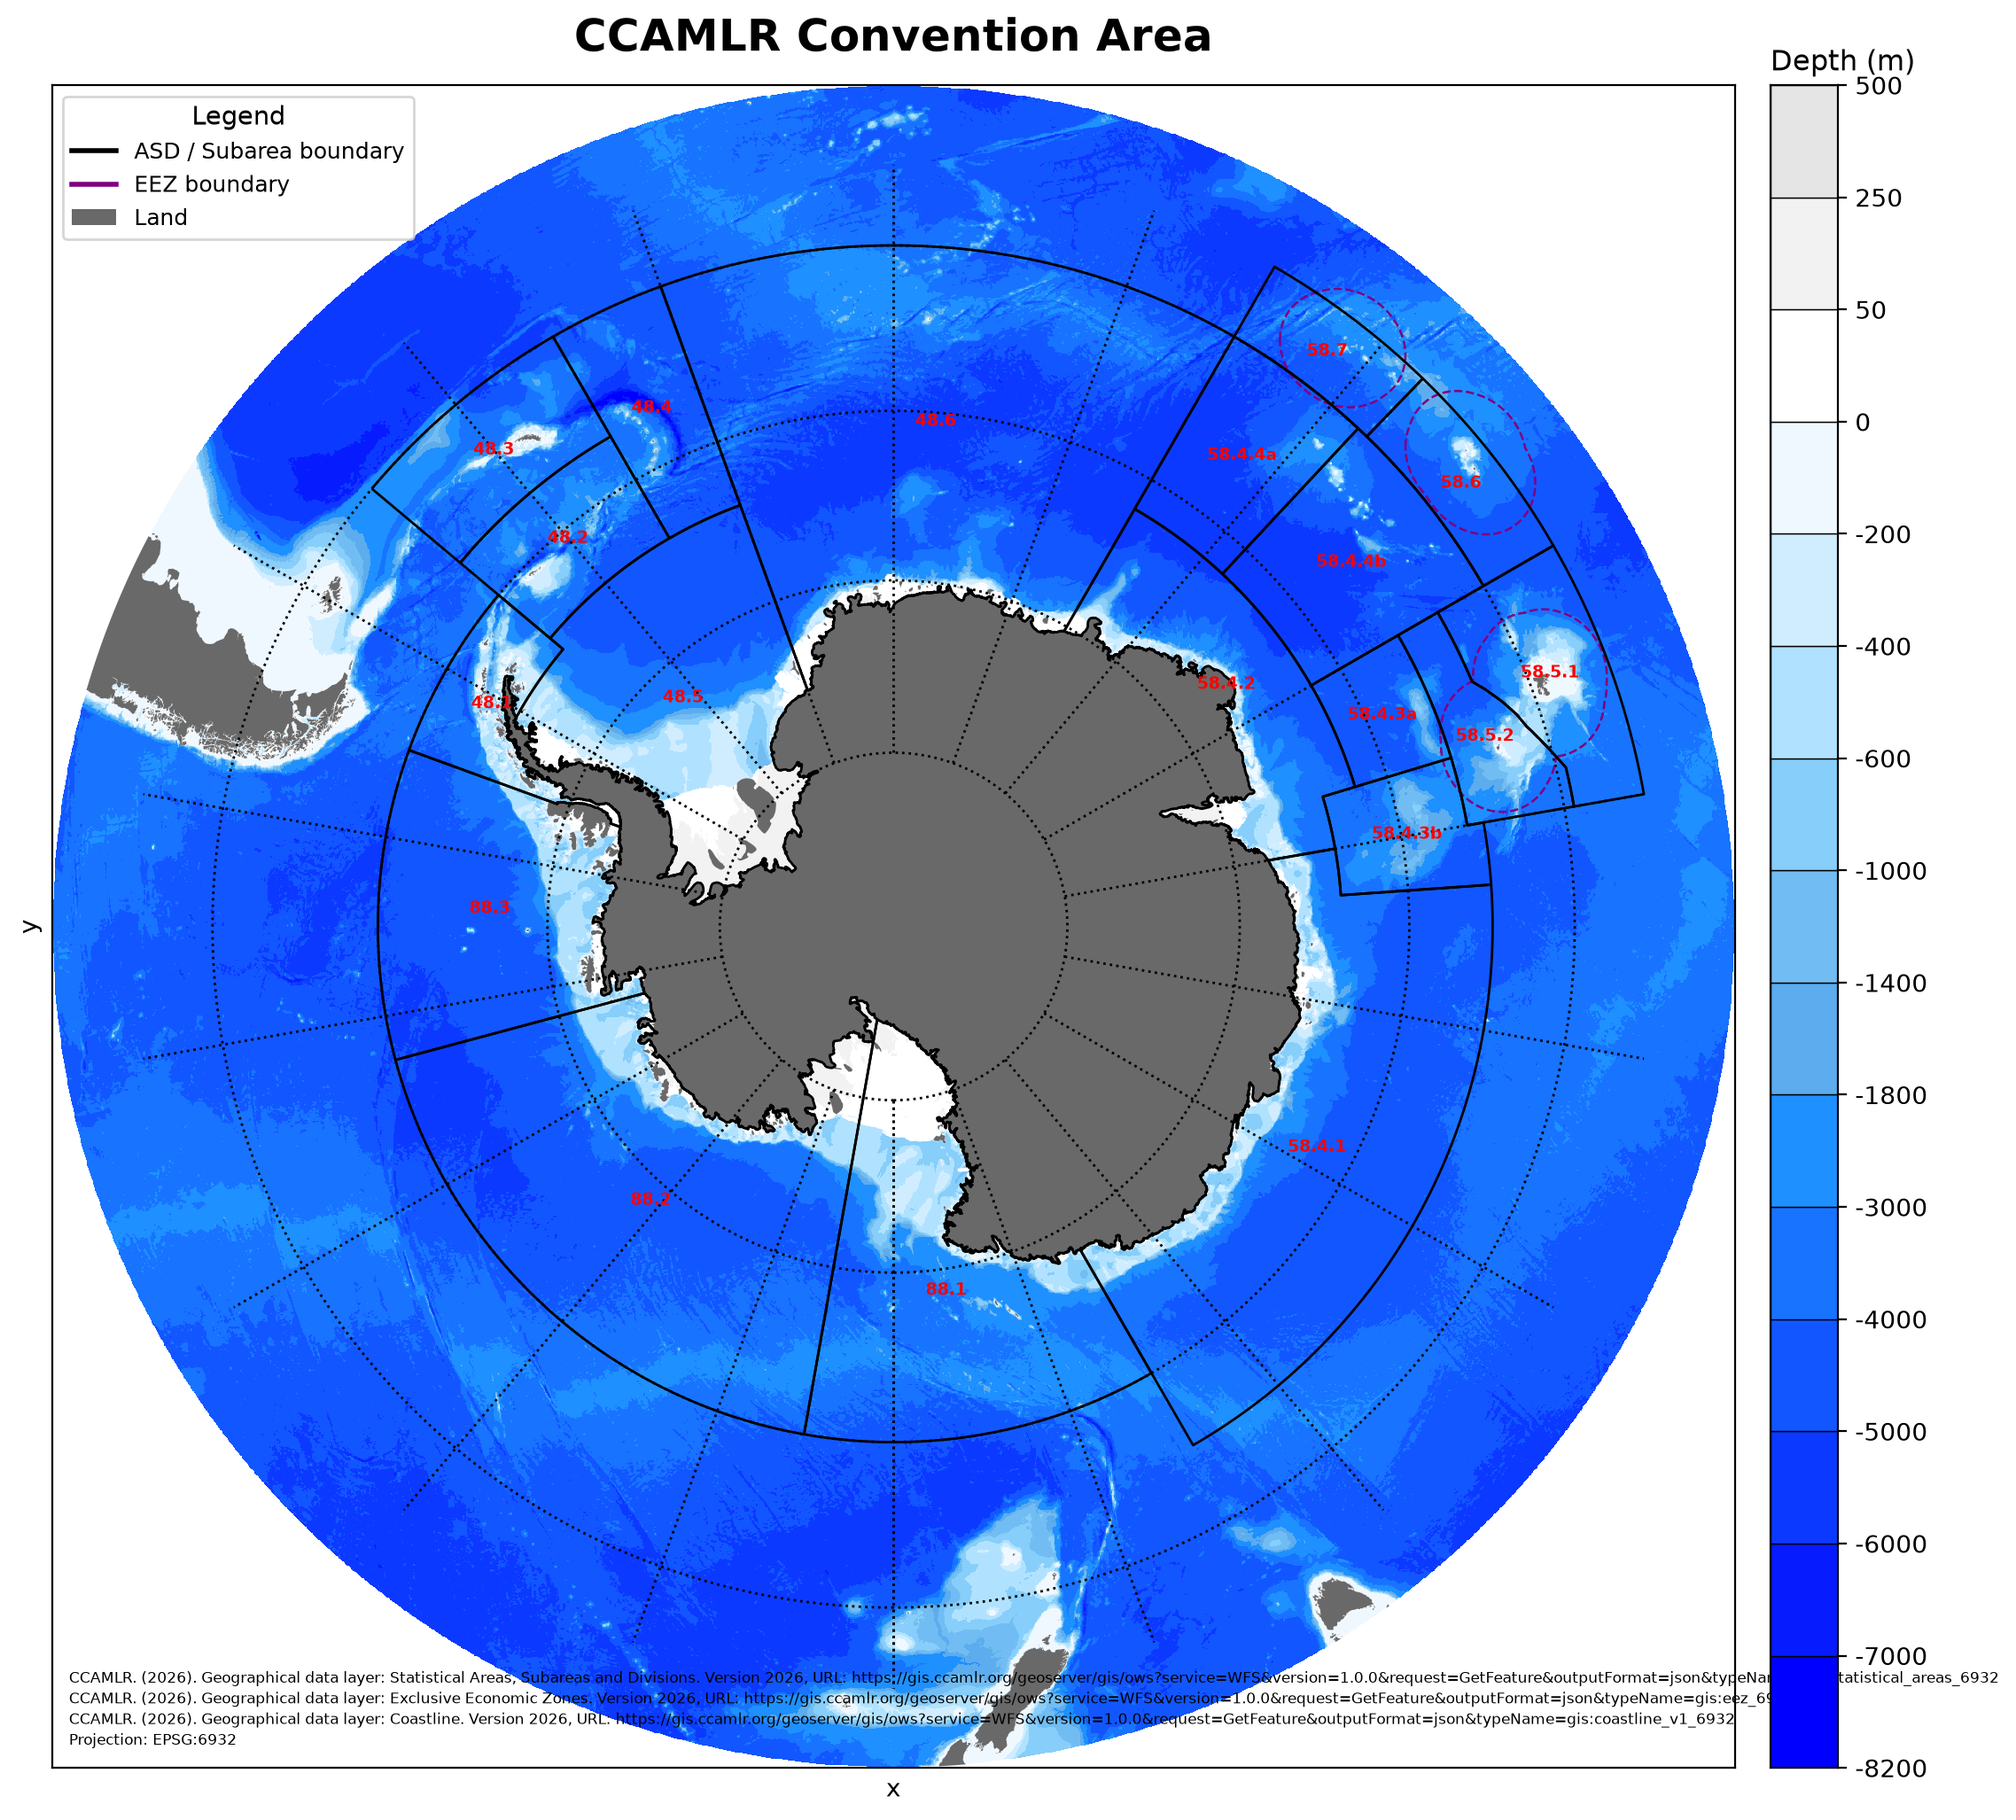
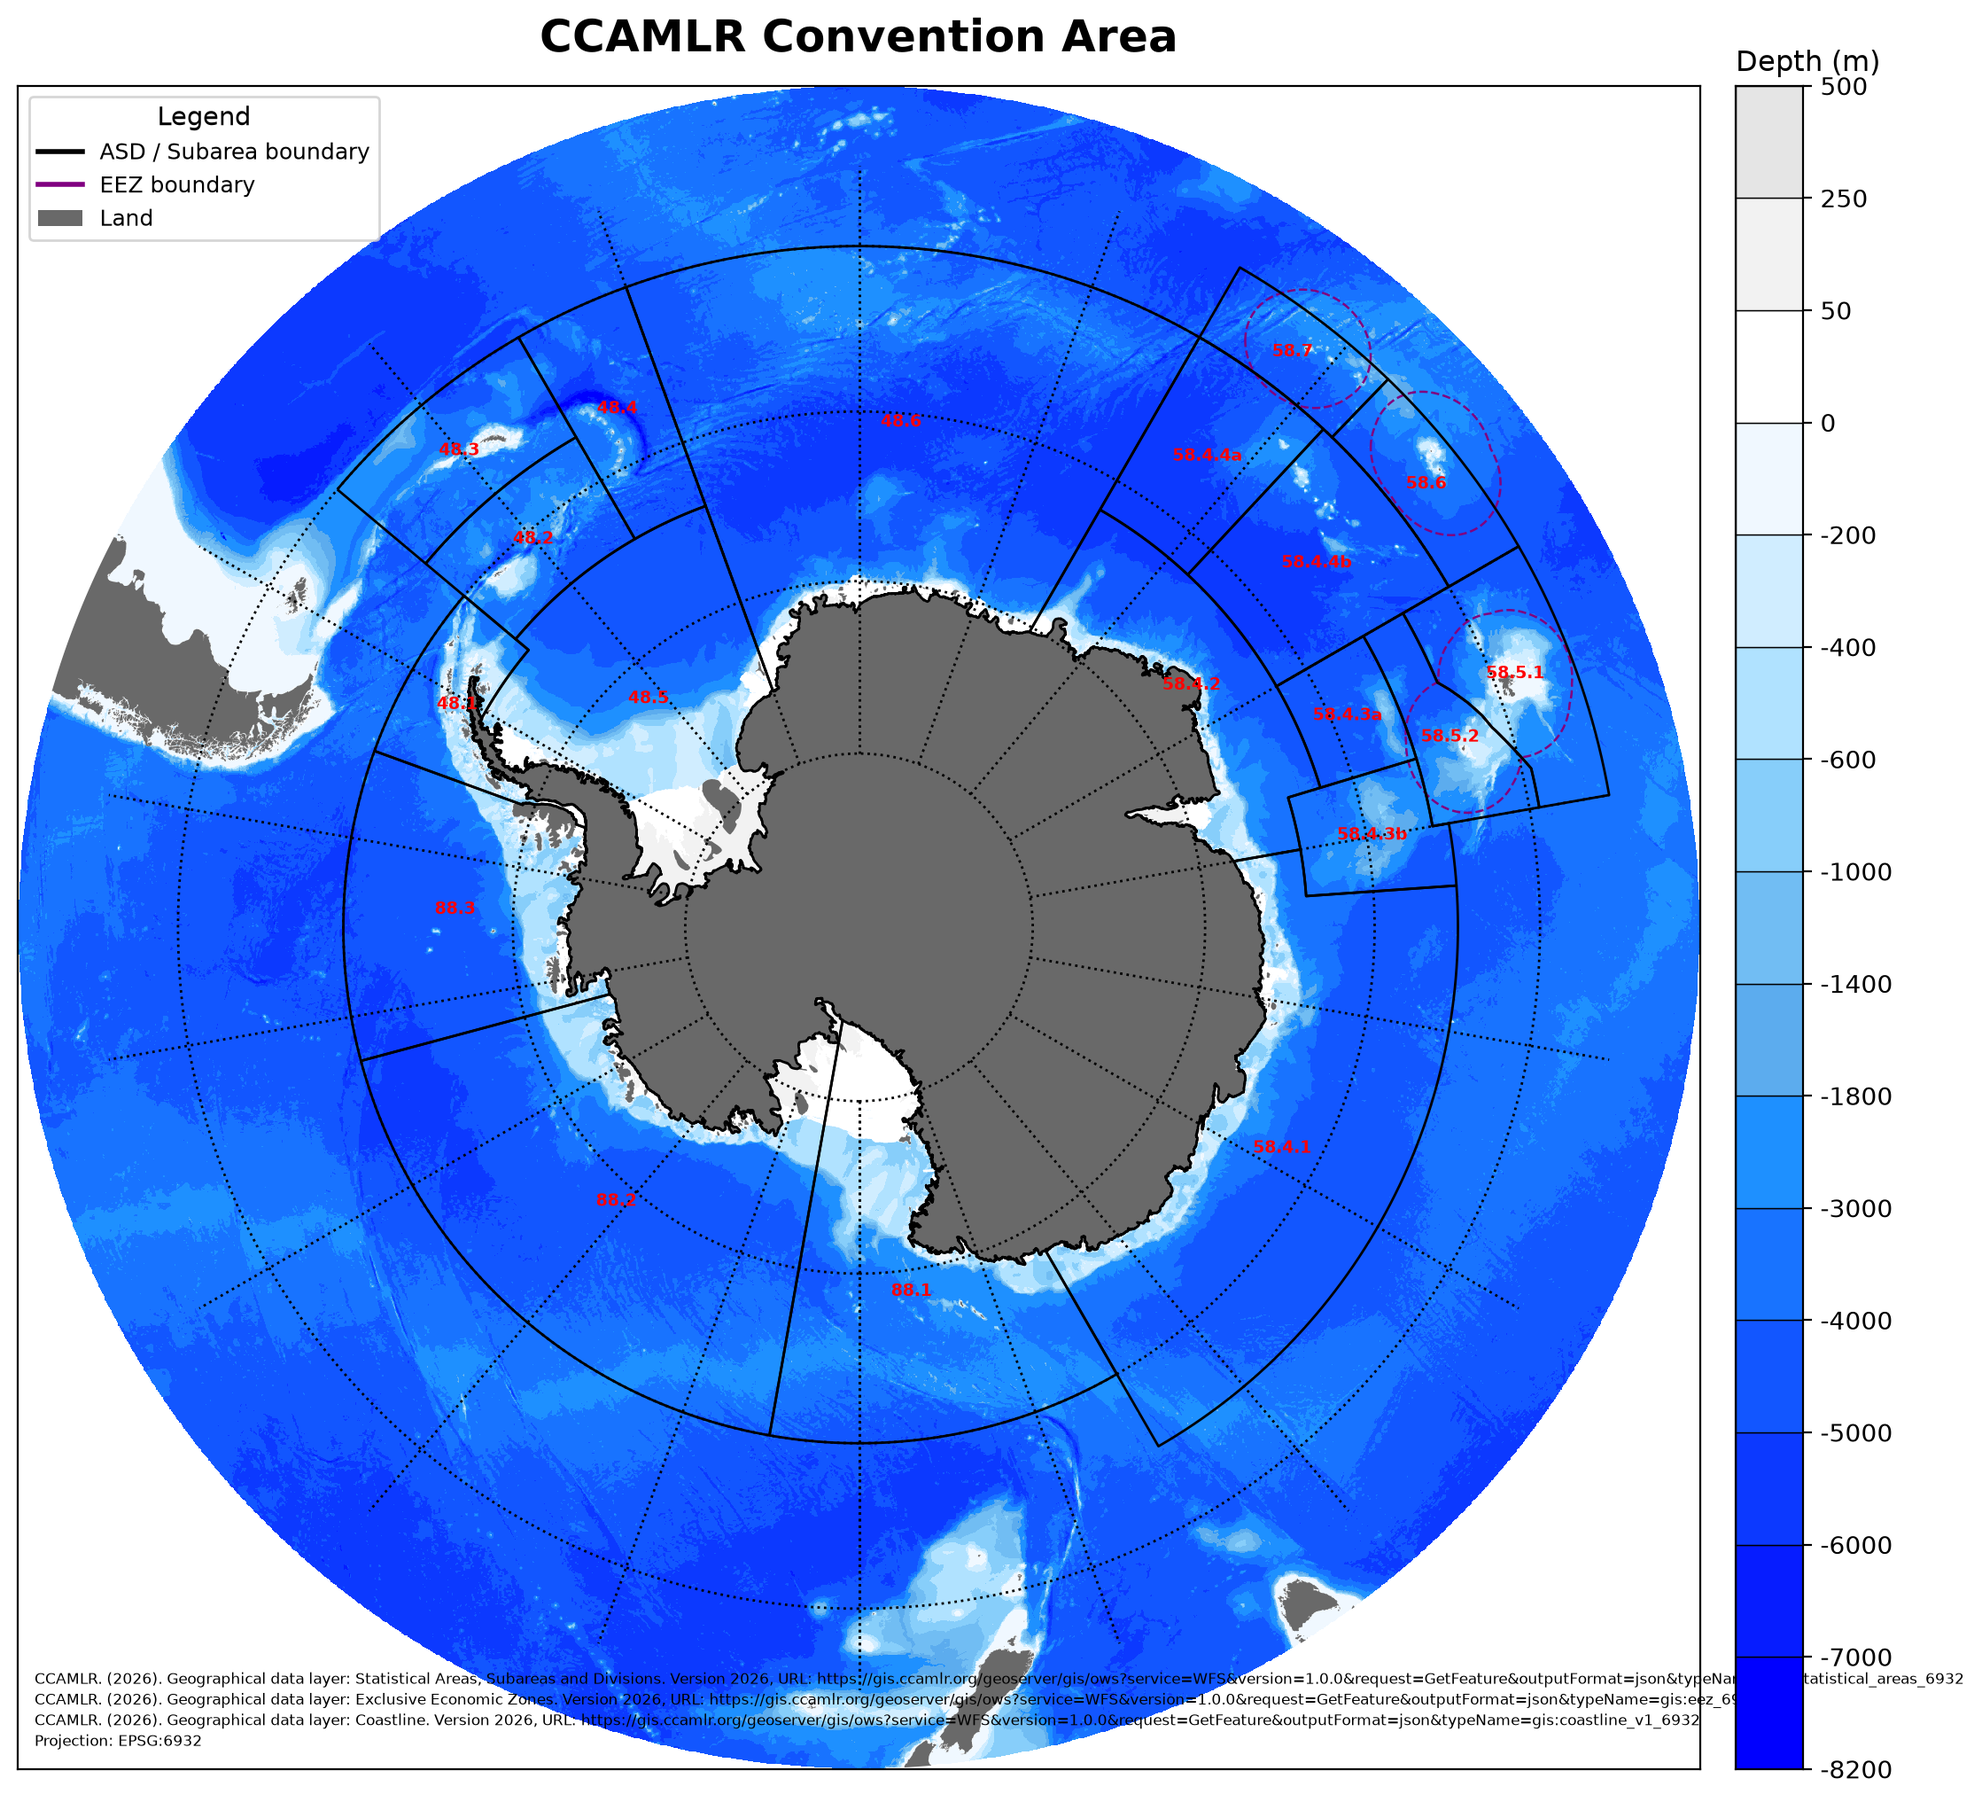
Add Subarea 48 zoomed map; fix axis-label clutter
New figure: make_subarea48_map.py -> output/subarea48_overview.png,
zoomed to CCAMLR Subarea 48 (Antarctic Peninsula / Scotia Sea) using
load_bathy at higher resolution than the full-continent overview.

Also cleared xarray's default x/y axis labels on both scripts (they
duplicated the reference grid's own lat/lon labelling. The Subarea 48
figure surfaced a real ccamlrgis bug along the way -- add_labels wasn't
clipping text to the axes, so every ASD label in the full dataset
rendered regardless of the current zoom, scattered outside the map
extent. Fixed upstream in ccamlrgis-py (see that repo's history) and
re-rendered both figures here with the fix.

EOF
)

Changed region(s): [[0.0, 0.0, 0.987, 0.9916], [0.7711, 0.7437, 0.802, 0.7747], [0.7403, 0.7747, 0.7711, 0.8057]]

diff --git a/make_subarea48_map.py b/make_subarea48_map.py
@@ -1,0 +1,59 @@
+"""Build a zoomed-in map of CCAMLR Subarea 48 (Antarctic Peninsula /
+Scotia Sea), using ccamlrgis (https://github.com/Zephyr-Sylvester/ccamlrgis-py).
+"""
+
+import matplotlib.pyplot as plt
+from matplotlib.colors import BoundaryNorm, ListedColormap
+
+import ccamlrgis as cg
+import ccamlrgis.plot as cgplot
+
+OUT_PATH = "output/subarea48_overview.png"
+SUBAREA_48_CODES = ["481", "482", "483", "484", "485", "486"]
+
+
+def main() -> None:
+    asds_all = cg.load_asds()
+    asds48 = asds_all[asds_all["GAR_Short_Label"].isin(SUBAREA_48_CODES)]
+    eezs = cg.load_eezs()
+    coast = cg.load_coastline()
+    coast_land = coast[coast["surface"] == "Land"]
+
+    bounds = tuple(asds48.buffer(50_000).total_bounds)
+    bathy = cg.load_bathy(res=2500)
+    bathy48 = bathy.rio.clip_box(*bounds)
+
+    depth_cmap = ListedColormap(cg.DEPTH_COLS)
+    depth_norm = BoundaryNorm(cg.DEPTH_CUTS, depth_cmap.N)
+
+    citations = [asds_all.attrs["citation"], eezs.attrs["citation"], coast.attrs["citation"]]
+    fig, ax = cgplot.basemap(figsize=(11, 11), attribution=citations)
+
+    bathy48.plot(ax=ax, cmap=depth_cmap, norm=depth_norm, add_colorbar=False)
+    ax.set_xlabel("")
+    ax.set_ylabel("")
+    cgplot.add_colour_scale(ax=ax, cuts=cg.DEPTH_CUTS, cols=cg.DEPTH_COLS, title="Depth (m)", size="4%", pad=0.2)
+    cgplot.add_reference_grid(ax=ax, bounds=bounds, res_lat=5, res_lon=10, fontsize=8)
+
+    coast_land.plot(ax=ax, color="dimgrey", linewidth=0)
+    eezs.boundary.plot(ax=ax, edgecolor="purple", linewidth=1, linestyle="--")
+    asds48.boundary.plot(ax=ax, edgecolor="black", linewidth=1.3)
+    cgplot.add_labels(ax=ax, mode="auto", layer="ASDs", fontsize=10, fonttype=2, colour="red")
+
+    ax.set_xlim(bounds[0], bounds[2])
+    ax.set_ylim(bounds[1], bounds[3])
+
+    items = [
+        cgplot.LegendItem("Subarea / Division boundary", shape="line", fill="black", linewidth=1),
+        cgplot.LegendItem("EEZ boundary", shape="line", fill="purple", linewidth=1),
+        cgplot.LegendItem("Land", shape="rectangle", fill="dimgrey", border="none"),
+    ]
+    cgplot.add_legend(ax=ax, items=items, title="Legend", loc="upper left", fontsize=9)
+
+    ax.set_title("CCAMLR Subarea 48", fontsize=18, fontweight="bold", pad=14)
+    fig.savefig(OUT_PATH, dpi=200, bbox_inches="tight")
+    print(f"Saved {OUT_PATH}")
+
+
+if __name__ == "__main__":
+    main()

diff --git a/make_overview_map.py b/make_overview_map.py
@@ -28,6 +28,8 @@ def main() -> None:
     fig, ax = cgplot.basemap(figsize=(13, 13), attribution=citations)
 
     bathy.plot(ax=ax, cmap=depth_cmap, norm=depth_norm, add_colorbar=False)
+    ax.set_xlabel("")
+    ax.set_ylabel("")
     cgplot.add_colour_scale(ax=ax, cuts=cg.DEPTH_CUTS, cols=cg.DEPTH_COLS, title="Depth (m)", size="4%", pad=0.2)
     cgplot.add_reference_grid(ax=ax, res_lat=10, res_lon=20, lab_lon=0, fontsize=8)
 
